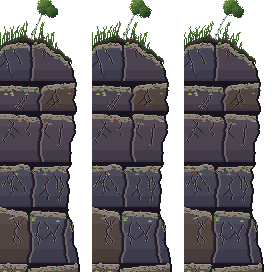
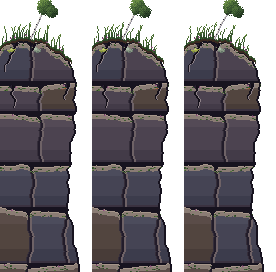
Åsen: tydelegare sprekker, samla lav og to låge nabbar midt nede ytst på hylla
Sprekkene startar i toppkanten, er to til tre pikslar breie med lys kant og skuggekile.
Laven ligg i få flekker på 4 til 8 pikslar (gulgrøn, grågrøn, rust). Nye forgrunnslag
nabb-m og nabb-m2 rammar inn utsikta når kameraet har glidd ned ytst på hylla.

diff --git a/js/rpg/data.js b/js/rpg/data.js
@@ -432,6 +432,10 @@ window.RPGData = (function () {
         // langt ned, så dei står på noko i alle kameraposisjonar: venstre syner ytst på hylla, høgre på neset.
         { bilete: "nabb", faktor: 1.25, ved: [6.5, 17.5], x: -18, y: 118, rammer: 3, rekkje: [0, 1, 2, 1], takt: 40 },
         { bilete: "nabb-h", faktor: [2, 1], ved: [8, 12.5], x: 250, y: 120, rammer: 3, rekkje: [0, 1, 2, 1], takt: 46 },
+        // Ytst på hylla: to låge nabbar midt nede som rammar inn utsikta (lågare og mindre enn sidenabbane,
+        // og litt ulik fart for djupn). Dei står berre i biletet når kameraet har glidd ned ytst på hylla.
+        { bilete: "nabb-m", faktor: 1.15, ved: [6.25, 19], x: 70, y: 124, rammer: 3, rekkje: [0, 1, 2, 1], takt: 52 },
+        { bilete: "nabb-m2", faktor: 1.1, ved: [6.25, 19], x: 202, y: 134, rammer: 3, rekkje: [0, 1, 2, 1], takt: 44 },
       ],
       /* Nedst er kanten ujamn: platået stikk ut i eit nes (x 21 til 23) og går inn i ei vik (x 25 til 27),
          og under midten (x 4 til 17) går ein skrent med rampe (11,14) ned til ei hylle eitt nivå lenger

diff --git a/tools/pikselkunst/utsikt.py b/tools/pikselkunst/utsikt.py
@@ -653,37 +653,58 @@ def gras_ramme(w, h, vind):
 
 NABB_W, NABB_H = 92, 272
 
-def nabb_ramme(vind, bjork, s, speil=False):
+# Lav i flekker: (mørk kant, mellomtone, lys midte). Gulgrøn kartlav, grågrøn skorpelav og rustlav.
+LAV = {"gul": ("#7e8a3e", "#a2ac4e", "#c6ca72"), "graa": ("#66746a", "#8a9a86", "#acbaa6"), "rust": ("#8a4a2a", "#b4683a", "#d68e52")}
+
+
+def lavflekk(L_, cx, cy, r, slag, s, lov):
+    """Ein lavflekk: ujamn kant (støy på radien), mørkare ytst og lysare midte. lov(x, y) seier kvar
+    lav kan vekse (på berget, ikkje i fugene)."""
+    mork, mid, lys = LAV[slag]
+    for y in range(int(cy - r) - 2, int(cy + r) + 3):
+        for x in range(int(cx - r * 1.4) - 2, int(cx + r * 1.4) + 3):
+            dx, dy = (x + .5 - cx) / (r * 1.35), (y + .5 - cy) / r
+            d = math.hypot(dx, dy) - (M.h(x, y, s) - 0.5) * 0.45
+            if d > 1 or not lov(x, y): continue
+            L_.p(x, y, lys if d < 0.38 else mid if d < 0.78 else mork)
+
+
+def nabb_ramme(vind, bjork, s, speil=False, w=NABB_W, h=NABB_H, topp=None, inner=None, ytre=None, y0=34,
+               radh=(40, 30, 48, 36, 56, 64), bw=(30, 34), nsprekk=4, lavar=("gul", "graa", "gul", "rust", "graa", "gul")):
     """Ein bergnabb nær kameraet som kjem inn frå sida av biletet, bygd av steinblokker med klare flater
     (same stil som klippeveggene i kartet, litt mørkare og meir metta så nabben ligg framfor): lyse
     toppflater, ei lys skråkant på sida mot ljoset (venstre), rolege mellomtonar på framsidene, og mørk
     skugge berre i fugene og under blokker som stikk ut. Lyng, gras og mose på hyllene, og jord og gras
     på toppen. Berget går langt ned, så nabben aldri heng i lufta. vind flyttar toppane av stråa (og
-    kruna på bjørka) 0, 1 eller 2 pikslar. speil: nabben kjem inn frå høgre (ljoset framleis frå venstre)."""
-    w, h = NABB_W, NABB_H
+    kruna på bjørka) 0, 1 eller 2 pikslar. speil: nabben kjem inn frå høgre (ljoset framleis frå venstre).
+    topp, inner og ytre gir forma (toppkanten, yttersida og venstre sida i lokal u); utan ytre går nabben
+    heilt ut til biletkanten. radh og bw er høgda på blokkradene og breidda på blokkene (min, tillegg).
+    nsprekk: kor mange sprekker (dei største blokkene øvst får dei), lavar: lavflekkane, i rekkjefølgje."""
     L_ = L(w, h)
     sx = (lambda u: w - 1 - u) if speil else (lambda u: u)                   # frå lokal u (0 ved biletkanten) til x
-    topp = lambda u: 40 + ((u - 24) / 44) ** 2 * 18 + (M.fbm(u / 6, 1, s, 3) - 0.5) * 6
-    inner = lambda y: 58 + 8 * math.sin(y / 34 + s) + (M.fbm(y / 9, 2, s + 1, 3) - 0.5) * 6 + min(18, y / 10)
+    topp = topp or (lambda u: 40 + ((u - 24) / 44) ** 2 * 18 + (M.fbm(u / 6, 1, s, 3) - 0.5) * 6)
+    inner = inner or (lambda y: 58 + 8 * math.sin(y / 34 + s) + (M.fbm(y / 9, 2, s + 1, 3) - 0.5) * 6 + min(18, y / 10))
+    ytre = ytre or (lambda y: -99)
     F = {"skugge": "#17131f", "fuge": "#221c2a", "front": "#4c4350", "front2": "#433b48", "botn": "#3a3240",
          "topp": "#8a7c74", "toppLys": "#a6968a", "lysKant": "#6e6266", "mork": "#352e3a"}
     # Blokkene: rader med ulik høgd, og i kvar rad blokker med ulik breidd. Toppen av kvar blokk ligg litt
     # ulikt, så somme stikk ut over den under (skugge under).
-    rader, y = [], 34
+    rader, y = [], y0
     k = 0
     while y < h:
-        hr = [40, 30, 48, 36, 56, 64][min(k, 5)] + int(M.h(k, 1, s + 20) * 10)
+        hr = radh[min(k, len(radh) - 1)] + int(M.h(k, 1, s + 20) * 10)
         blokker, u = [], -int(M.h(k, 9, s + 20) * 20)                        # forskoven rad for rad, så fugene ikkje står i liner
         while u < w:
-            bw = 30 + int(M.h(k, len(blokker), s + 21) * 34)
-            blokker.append((u, u + bw, int(M.h(k, len(blokker), s + 22) * 7), int(M.h(k, len(blokker), s + 27) * 7)))   # venstre, høgre, topp v/h
-            u += bw
+            bw_ = bw[0] + int(M.h(k, len(blokker), s + 21) * bw[1])
+            blokker.append((u, u + bw_, int(M.h(k, len(blokker), s + 22) * 7), int(M.h(k, len(blokker), s + 27) * 7)))   # venstre, høgre, topp v/h
+            u += bw_
         rader.append((y, y + hr, blokker)); y += hr; k += 1
     mose = M.rampe("#2c4228", "#3e5a32", "#56763e")
     # Fargevariasjon: somme blokker litt varmare (brungrå), andre litt kaldare (blågrå), og ein svak
     # lysovergang nedover framsida (to flate band, ikkje dither).
     TONAR = {"nøytral": ("#544a56", "#4c4350", "#433b48"), "varm": ("#5a4c48", "#52453f", "#483c38"), "kald": ("#4c4c5c", "#454454", "#3c3c4c")}
     framside = {}                                                         # (x, y) -> blokk, for sprekker og lav etterpå
+    blokk = {}                                                            # (x, y) -> blokk, heile blokka med toppflata (ikkje fugene)
     blokkinfo = []
     for (r0, r1, blokker) in rader:
         for (b0_, b1_, offv, offh) in blokker:
@@ -697,7 +718,7 @@ def nabb_ramme(vind, bjork, s, speil=False):
                 b1 = b1_ + round(math.sin(yy / 7 + b1_) * 1.4 + (M.stoy(yy / 5, b1_, s + 28) - 0.5) * 2)
                 for u in range(max(0, b0), min(w, b1)):
                     t = topp(u)
-                    if yy < t or u > inner(yy): continue
+                    if yy < t or u > inner(yy) or u < ytre(yy): continue
                     x = sx(u)
                     # venstre/høgre kant i skjermretning (ljoset kjem frå venstre)
                     xa, xb = (sx(b0), sx(b1 - 1)) if not speil else (sx(b1 - 1), sx(b0))
@@ -720,68 +741,86 @@ def nabb_ramme(vind, bjork, s, speil=False):
                         rel = (yy - r0) / max(1, r1 - r0)
                         c = tone_[0] if rel < 0.3 else tone_[1] if rel < 0.75 else tone_[2]
                         framside[(x, yy)] = bid
+                    if dy >= 0 and not (dv < 1 or dh < 1) and iu >= 2: blokk[(x, yy)] = bid
                     if iu < 2: c = F["lysKant"] if speil else F["skugge"]                 # yttersida av nabben
-                    if 1 <= dy < 5 and M.h(x // 2, yy, s + 24) > 0.78: c = M.tone(mose, M.h(x, yy, s + 25), x, yy)   # mose på hyllene
+                    if u - ytre(yy) < 2 and dy >= 0: c = F["lysKant"]                     # venstre sida, mot ljoset
+                    if 1 <= dy < 5 and M.h(x // 2, yy, s + 24) > 0.88: c = M.tone(mose, M.h(x, yy, s + 25), x, yy)   # mose på hyllene
                     L_.p(x, yy, c)
-            pass
-    # Sprekker: få per blokk, på skrå og med greiner, mørk line med lys kant mot ljoset (til høgre for
-    # sprekka, der veggen i sprekka vender mot venstre). Ei mørk vassstripe renn ned frå éi sprekk.
-    sprekkFarge, lysKant, vatnFarge = "#1e1826", "#6e6268", "#3a3240"
+    # Sprekker: få og tydelege, på dei største blokkene øvst (der dei syner i spelet). Kvar er ei kløyft
+    # med mørk kjerne to pikslar brei (ein nedst), ein lys kant til høgre (veggen i sprekka vender mot
+    # ljoset), og ein mørk skuggekile øvst der sprekka opnar seg. Ei mørk vassstripe renn ned frå éi.
+    kjerne, kile, lysKant, vatnFarge = "#130f19", "#241d2c", "#8e8288", "#3a3240"
     vatn_brukt = False
-    lav = ["#9aa456", "#7e8c72", "#b0683a"]
+    kandidatar = []
     for bid, (r0, r1, b0_, b1_, off) in enumerate(blokkinfo):
         fr = [p for p, b in framside.items() if b == bid]
+        if len(fr) < 60: continue
+        kandidatar.append((r0 + M.h(bid, 3, s + 31) * 30 - len(fr) / 40, bid, fr))
+    kandidatar.sort()
+    sprekker = []
+    for _, bid, fr in kandidatar[:nsprekk]:
+        r0, r1, b0_, b1_, off = blokkinfo[bid]
+        ys = [p[1] for p in fr]; ytop = min(ys)
+        rad0 = [p[0] for p in fr if p[1] <= ytop + 2]
+        x = rad0[len(rad0) // 3 + int(M.h(bid, 2, s + 32) * len(rad0) / 3)]
+        # Sprekka startar i toppkanten av blokka (eit hakk i kanten), så ho syner sjølv når berre toppen
+        # av nabben er i biletet.
+        yy = min([p[1] for p in blokk if p[0] == x and blokk[p] == bid] or [ytop])
+        retning = -1 if M.h(bid, 1, s + 33) < 0.5 else 1
+        lengd = min(r1 - yy - 3, 16 + int(M.h(bid, 1, s + 34) * 14))
+        sprekker.append((x, yy))
+        for steg in range(lengd):
+            bk = 3 if steg < 3 else 2 if steg < lengd * 0.7 else 1               # kjernen smalnar nedover
+            kw = max(0, 4 - steg)                                                 # skuggekilen øvst
+            berg = lambda p: blokk.get(p) == bid
+            for dx in range(-kw, 0):
+                if berg((x + dx, yy)): L_.p(x + dx, yy, kile)
+            for dx in range(bk):
+                if berg((x + dx, yy)): L_.p(x + dx, yy, kjerne)
+            if berg((x + bk, yy)): L_.p(x + bk, yy, lysKant)
+            yy += 1
+            if M.h(x, yy, s + 38) < 0.35: x += retning
+            if M.h(x, yy, s + 39) < 0.1: retning = -retning
+        if not vatn_brukt and M.h(bid, 0, s + 40) > 0.4:                       # vassstripe ned frå sprekka
+            vatn_brukt = True
+            for vy in range(yy, r1 - 2):
+                for vx in (x, x + 1):
+                    if (vx, vy) in framside and M.h(vx, vy, s + 41) > 0.15: L_.p(vx, vy, vatnFarge)
+    # Lav: nokre få større flekker (4 til 8 pikslar) langs toppkanten av blokkene øvst og ved sprekkene.
+    stader = [(x - 4, y + 3) for (x, y) in sprekker]
+    for bid, (r0, r1, b0_, b1_, off) in sorted(enumerate(blokkinfo), key=lambda e: e[1][0] + M.h(e[0], 7, s + 43) * 20):
+        fr = [p for p, b in framside.items() if b == bid]
         if len(fr) < 40: continue
-        xs = [p[0] for p in fr]; x0, x1 = min(xs), max(xs)
-        for n in range(2 + int(M.h(bid, 1, s + 31) * 2)):
-            x = x0 + 4 + int(M.h(bid, n, s + 32) * max(1, x1 - x0 - 8)); yy = r0 + off + 5 + int(M.h(bid, n, s + 47) * 8)
-            retning = -1 if M.h(bid, n, s + 33) < 0.5 else 1
-            lengd = 8 + int(M.h(bid, n, s + 34) * 18)
-            for steg in range(lengd):
-                if (x, yy) in framside and framside[(x, yy)] == bid:
-                    L_.p(x, yy, sprekkFarge)
-                    if (x + 1, yy) in framside: L_.p(x + 1, yy, lysKant)
-                    if M.h(x, yy, s + 35) > 0.82 and (x - 1, yy) in framside: L_.p(x - 1, yy, M.hx(lav[int(M.h(x, yy, s + 36) * 2.2)]))   # lav langs sprekka
-                if steg == lengd // 2 and M.h(bid, n, s + 37) > 0.5:   # ei grein
-                    gx, gy = x, yy
-                    for g2 in range(6):
-                        gx -= retning; gy += 1
-                        if (gx, gy) in framside: L_.p(gx, gy, sprekkFarge)
-                yy += 1
-                if M.h(x, yy, s + 38) < 0.45: x += retning
-                if M.h(x, yy, s + 39) < 0.12: retning = -retning
-            if not vatn_brukt and M.h(bid, n, s + 40) > 0.5:          # vassstripe ned frå sprekka
-                vatn_brukt = True
-                for vy in range(yy, r1 - 2):
-                    for vx in (x, x + 1):
-                        if (vx, vy) in framside and M.h(vx, vy, s + 41) > 0.15: L_.p(vx, vy, vatnFarge)
-        # Lav i små klynger nær toppkanten av blokka
-        for n in range(2 + int(M.h(bid, 5, s + 42) * 3)):
-            cx = x0 + int(M.h(bid, n, s + 43) * (x1 - x0)); cy = r0 + off + 5 + int(M.h(bid, n, s + 44) * 4)
-            f = lav[0] if M.h(bid, n, s + 45) < 0.5 else lav[1] if M.h(bid, n, s + 45) < 0.88 else lav[2]
-            for dx, dy in [(0, 0), (1, 0), (0, 1), (-1, 1), (1, 1), (2, 1)]:
-                if M.h(cx + dx, cy + dy, s + 46) > 0.25 and (cx + dx, cy + dy) in framside: L_.p(cx + dx, cy + dy, f)
+        ytop = min(p[1] for p in fr); rad0 = [p[0] for p in fr if p[1] <= ytop + 1]
+        stader.append((rad0[int(M.h(bid, 8, s + 44) * len(rad0))], ytop + 2))
+    for n, slag in enumerate(lavar):
+        if n >= len(stader): break
+        cx, cy = stader[n]
+        lavflekk(L_, cx, cy, 2.6 + M.h(n, 1, s + 45) * 1.2, slag, s + 46 + n, lambda x, y: (x, y) in framside)
     for (r0, r1, blokker) in rader:
         for (b0_, b1_, offv, offh) in blokker:
             # lyng på toppflata av nokre blokker
             if M.h(b0_, r0, s + 26) > 0.55:
                 u = b0_ + (b1_ - b0_) // 2; yy = max(r0, int(topp(max(0, u)))) + (offv + offh) // 2 + 1
-                if 0 <= u < w and u <= inner(yy): x = sx(u); L_.p(x, yy, "#8a5278"); L_.p(x + 1, yy, "#a86a92"); L_.p(x, yy - 1, "#5e3c58")
+                if 0 <= u < w and ytre(yy) <= u <= inner(yy): x = sx(u); L_.p(x, yy, "#8a5278"); L_.p(x + 1, yy, "#a86a92"); L_.p(x, yy - 1, "#5e3c58")
     gras = M.rampe("#14221a", "#1e3222", "#2a4428", "#3a5a30", "#4e7038", "#66883e")
+    tu = []                                                               # u der toppen er
     for u in range(w):                                                    # jord og gras som ligg på toppen
         t = int(topp(u))
-        if u > inner(t) + 2: continue
+        if u > inner(t) + 2 or u < ytre(t) - 2: continue
+        tu.append(u)
         for kk in range(4): L_.p(sx(u), t - 1 + kk, M.tone(gras, 0.34 + (2 - kk) * 0.14, u, t + kk) if kk < 2 else "#3a2a20")
-    for i in range(46):                                                   # strå som vaiar
-        u0 = M.h(i, 1, s + 4) * (inner(40) - 4); y0 = topp(u0)
-        lengd = 6 + M.h(i, 2, s + 4) * 14
+    tu = [u for u in tu if 2 < u - ytre(topp(u)) and inner(topp(u)) - u > 3] or tu
+    for i in range(len(tu) // 2):                                         # strå som vaiar
+        u0 = tu[int(M.h(i, 1, s + 4) * len(tu))]; y0_ = topp(u0)
+        lengd = 6 + M.h(i, 2, s + 4) * 14 * min(1, h / 200 + 0.3)
         lut = (M.h(i, 3, s + 4) - 0.4) * 0.6
         for kk in range(int(lengd)):
             t = kk / lengd
-            x = sx(u0 + lut * kk * t) + round(vind * t * t * (0.6 + lengd / 30)); yy = y0 - kk
+            x = sx(u0 + lut * kk * t) + round(vind * t * t * (0.6 + lengd / 30)); yy = y0_ - kk
             L_.p(x, yy, M.tone(gras, 0.34 + t * 0.62, int(x), int(yy)))
-    for i in range(10):                                                   # lyng på toppen
-        u = M.h(i, 1, s + 5) * (inner(40) - 6); yy = topp(u) - 1 - M.h(i, 2, s + 5) * 3
+    for i in range(max(2, len(tu) // 8)):                                 # lyng på toppen
+        u = tu[int(M.h(i, 1, s + 5) * len(tu))]; yy = topp(u) - 1 - M.h(i, 2, s + 5) * 3
         x = sx(u); L_.p(x, yy, "#8a5278"); L_.p(x + 1, yy, "#a86a92"); L_.p(x, yy - 1, "#5e3c58")
     if bjork:                                                             # ei lita bjørk som lener seg ut over stupet
         bu, by = 30, int(topp(30))
@@ -807,6 +846,41 @@ def nabb_h():
     return ark.im
 
 
+# Dei låge nabbane midt nede (ytst på hylla): ein låg, brei bergrygg og ein mindre stein litt til høgre.
+# Sidene skrånar ut til botnen av biletet, så dei står på noko sjølv om berre toppen syner.
+NABBM_W, NABBM_H = 150, 120
+NABBM2_W, NABBM2_H = 100, 100
+
+
+def nabb_m():
+    """Låg bergrygg midt nede: brei og flat, lågare enn sidenabbane."""
+    w, h, s = NABBM_W, NABBM_H, 661
+    # Ein rund skulder som vert breiare nedover og når biletkanten først nedst (under skjermkanten).
+    hw = lambda y: 16 + 58 * (max(0, y - 10) / (h - 10)) ** 0.55
+    topp = lambda u: 12 + ((u - 72) / 44) ** 2 * 8 + (M.fbm(u / 6, 1, s, 3) - 0.5) * 5
+    ytre = lambda y: 72 - hw(y) * 1.05 + (M.fbm(y / 7, 3, s, 2) - 0.5) * 4
+    inner = lambda y: 72 + hw(y) + (M.fbm(y / 7, 2, s, 2) - 0.5) * 4
+    ark = L(w * GRAS_RAMMER, h)
+    for f in range(GRAS_RAMMER):
+        ark.im.alpha_composite(nabb_ramme(f, False, s, w=w, h=h, topp=topp, inner=inner, ytre=ytre, y0=8,
+                                          radh=(26, 34, 44), bw=(34, 36), nsprekk=2, lavar=("gul", "graa", "rust")), (f * w, 0))
+    return ark.im
+
+
+def nabb_m2():
+    """Mindre stein litt til høgre, med ein rund topp."""
+    w, h, s = NABBM2_W, NABBM2_H, 671
+    hw = lambda y: 11 + 38 * (max(0, y - 10) / (h - 10)) ** 0.55
+    topp = lambda u: 12 + ((u - 48) / 30) ** 2 * 8 + (M.fbm(u / 5, 1, s, 3) - 0.5) * 4
+    ytre = lambda y: 48 - hw(y) + (M.fbm(y / 7, 3, s, 2) - 0.5) * 3
+    inner = lambda y: 48 + hw(y) + (M.fbm(y / 7, 2, s, 2) - 0.5) * 3
+    ark = L(w * GRAS_RAMMER, h)
+    for f in range(GRAS_RAMMER):
+        ark.im.alpha_composite(nabb_ramme(f, False, s, w=w, h=h, topp=topp, inner=inner, ytre=ytre, y0=8,
+                                          radh=(22, 30, 40), bw=(28, 30), nsprekk=1, lavar=("graa", "gul")), (f * w, 0))
+    return ark.im
+
+
 def fuglar():
     """Tre fuglar som svevar langt nede over dalen (eit lag over lia: to rammer med venger opp og ned,
     og laget driv sakte bortover). Små, mørke og litt disige."""
@@ -821,7 +895,7 @@ def fuglar():
 
 
 
-BILETE = {"li": li, "elv": elv_rammer, "skyer": skyer, "fuglar": fuglar, "nabb": nabb, "nabb-h": nabb_h, "li-kort": li_kort, "dal-under": dal_under, "himmel": himmel, "fjell": fjell, "dal-nord": dal_nord, "naer": naer, "greiner": greiner}
+BILETE = {"li": li, "elv": elv_rammer, "skyer": skyer, "fuglar": fuglar, "nabb": nabb, "nabb-h": nabb_h, "nabb-m": nabb_m, "nabb-m2": nabb_m2, "li-kort": li_kort, "dal-under": dal_under, "himmel": himmel, "fjell": fjell, "dal-nord": dal_nord, "naer": naer, "greiner": greiner}
 
 if __name__ == "__main__":
     namn = sys.argv[1:] or list(BILETE)

diff --git a/tools/pikselkunst/ARBEIDSLOGG.md b/tools/pikselkunst/ARBEIDSLOGG.md
@@ -1451,3 +1451,25 @@ same måte, uansett kven som tek over.
 - **Vurdert:** `forhand/skjerm/r47-einer-for-etter.png`, `r47-lykt-for-etter.png`,
   `r47-skogkant-for-etter.png` (venstre og høgre side), og `r47-for-vegen-spel.png` / `r47-etter-vegen-spel.png`.
 - **Står att:** Den frittståande furua (`F` på 1,8) står tett inn i kanten og blandar seg med granene.
+
+## Runde 48: tydelegare sprekker, samla lav og fleire nabbar mot midten
+
+- **Oppdrag:** Brukaren: gjer sprekkene i nabbane tydelegare, samle laven, og gjerne fleire nabbar mot
+  midten av biletet når ein står ytst på hylla.
+- **Sprekker:** Færre og tydelegare (`nsprekk` per nabb, dei største blokkene øvst får dei). Kvar startar
+  i toppkanten av blokka, så ho syner sjølv når berre toppen av nabben er i biletet: mørk kjerne tre
+  pikslar brei øvst, to nedover og éin nedst, lys kant til høgre (veggen i sprekka vender mot ljoset)
+  og ein mørk skuggekile øvst der sprekka opnar seg.
+- **Lav:** `lavflekk()` teiknar nokre få flekker på 4 til 8 pikslar med ujamn kant og lysare midte:
+  gulgrøn, grågrøn og éin rustoransje, langs toppkanten av blokkene og ved sprekkene. Færre mosepunkt
+  på hyllene, så flekkene ikkje druknar i småprikkar.
+- **Nye nabbar:** `nabb_ramme` tek no form (topp, inner, ytre), blokkstorleik og tal på sprekker, og
+  gir `nabb-m` (låg, brei bergrygg) og `nabb-m2` (mindre stein). Sidene vert breiare nedover og når
+  biletkanten først under skjermkanten, så dei står på noko. I `data.js` står dei i forgrunnen med
+  `ved: [6.25, 19]` (kameraet ytst på hylla), faktor 1.15 og 1.1 for djupn. Dei rammar inn utsikta
+  midt nede utan å dekkje Ivar, spissen eller elva, og er ute av biletet på neset og elles på hylla.
+- **Vurdert:** `forhand/skjerm/r48-for-etter.png` (ytst på hylla og neset, før og etter) og
+  `r48-nabb.png` (dei gamle sidenabbane, så dei nye fire). Sjekka òg `r48-etter-midt-spel.png`
+  (hylla utan kameraglid): dei nye nabbane syner ikkje der.
+- **Står att:** I utsnittet ytst på hylla syner berre dei øvste 20 til 30 pikslane av nabbane, så
+  berre den øvste sprekka og laven der syner i spelet.

diff --git a/.claude/skills/pikselkunst/SKILL.md b/.claude/skills/pikselkunst/SKILL.md
@@ -174,7 +174,7 @@ Kjelda er alltid ei `.pix`-fil i `tools/pikselkunst/kjelder/` (formatet står
   - Bakgrunnslaga og forgrunnen: `python tools/pikselkunst/utsikt.py` (skriptet er kjelda) skriv
     `bilete/spel/parallakse/<namn>.png` (himmel, fjell, dal-nord og naer øvst, li (dalsida som glir over i dalen sett ovanfrå), elv
     (4 rammer) og skyer (drift) under stupet som fast
-    lag med faktor 1, li-kort og dal-under for varianten «dal», greiner, nabb og nabb-h (bergnabbar i forgrunnen), fuglar) og
+    lag med faktor 1, li-kort og dal-under for varianten «dal», greiner, nabb og nabb-h (bergnabbar i forgrunnen), nabb-m og nabb-m2 (låge nabbar midt nede ytst på hylla), fuglar) og
     `forhand/utsikt-ark.png`. På
     kartet: `parallakse: [{ bilete, faktor, ved: [kx, ky], x, y }]` (det fjernaste først, faktor under 1),
     `forgrunn: [...]` (faktor over 1), `luftfarge`, `kameraNed: { fra, rader, fart }` (kameraet
